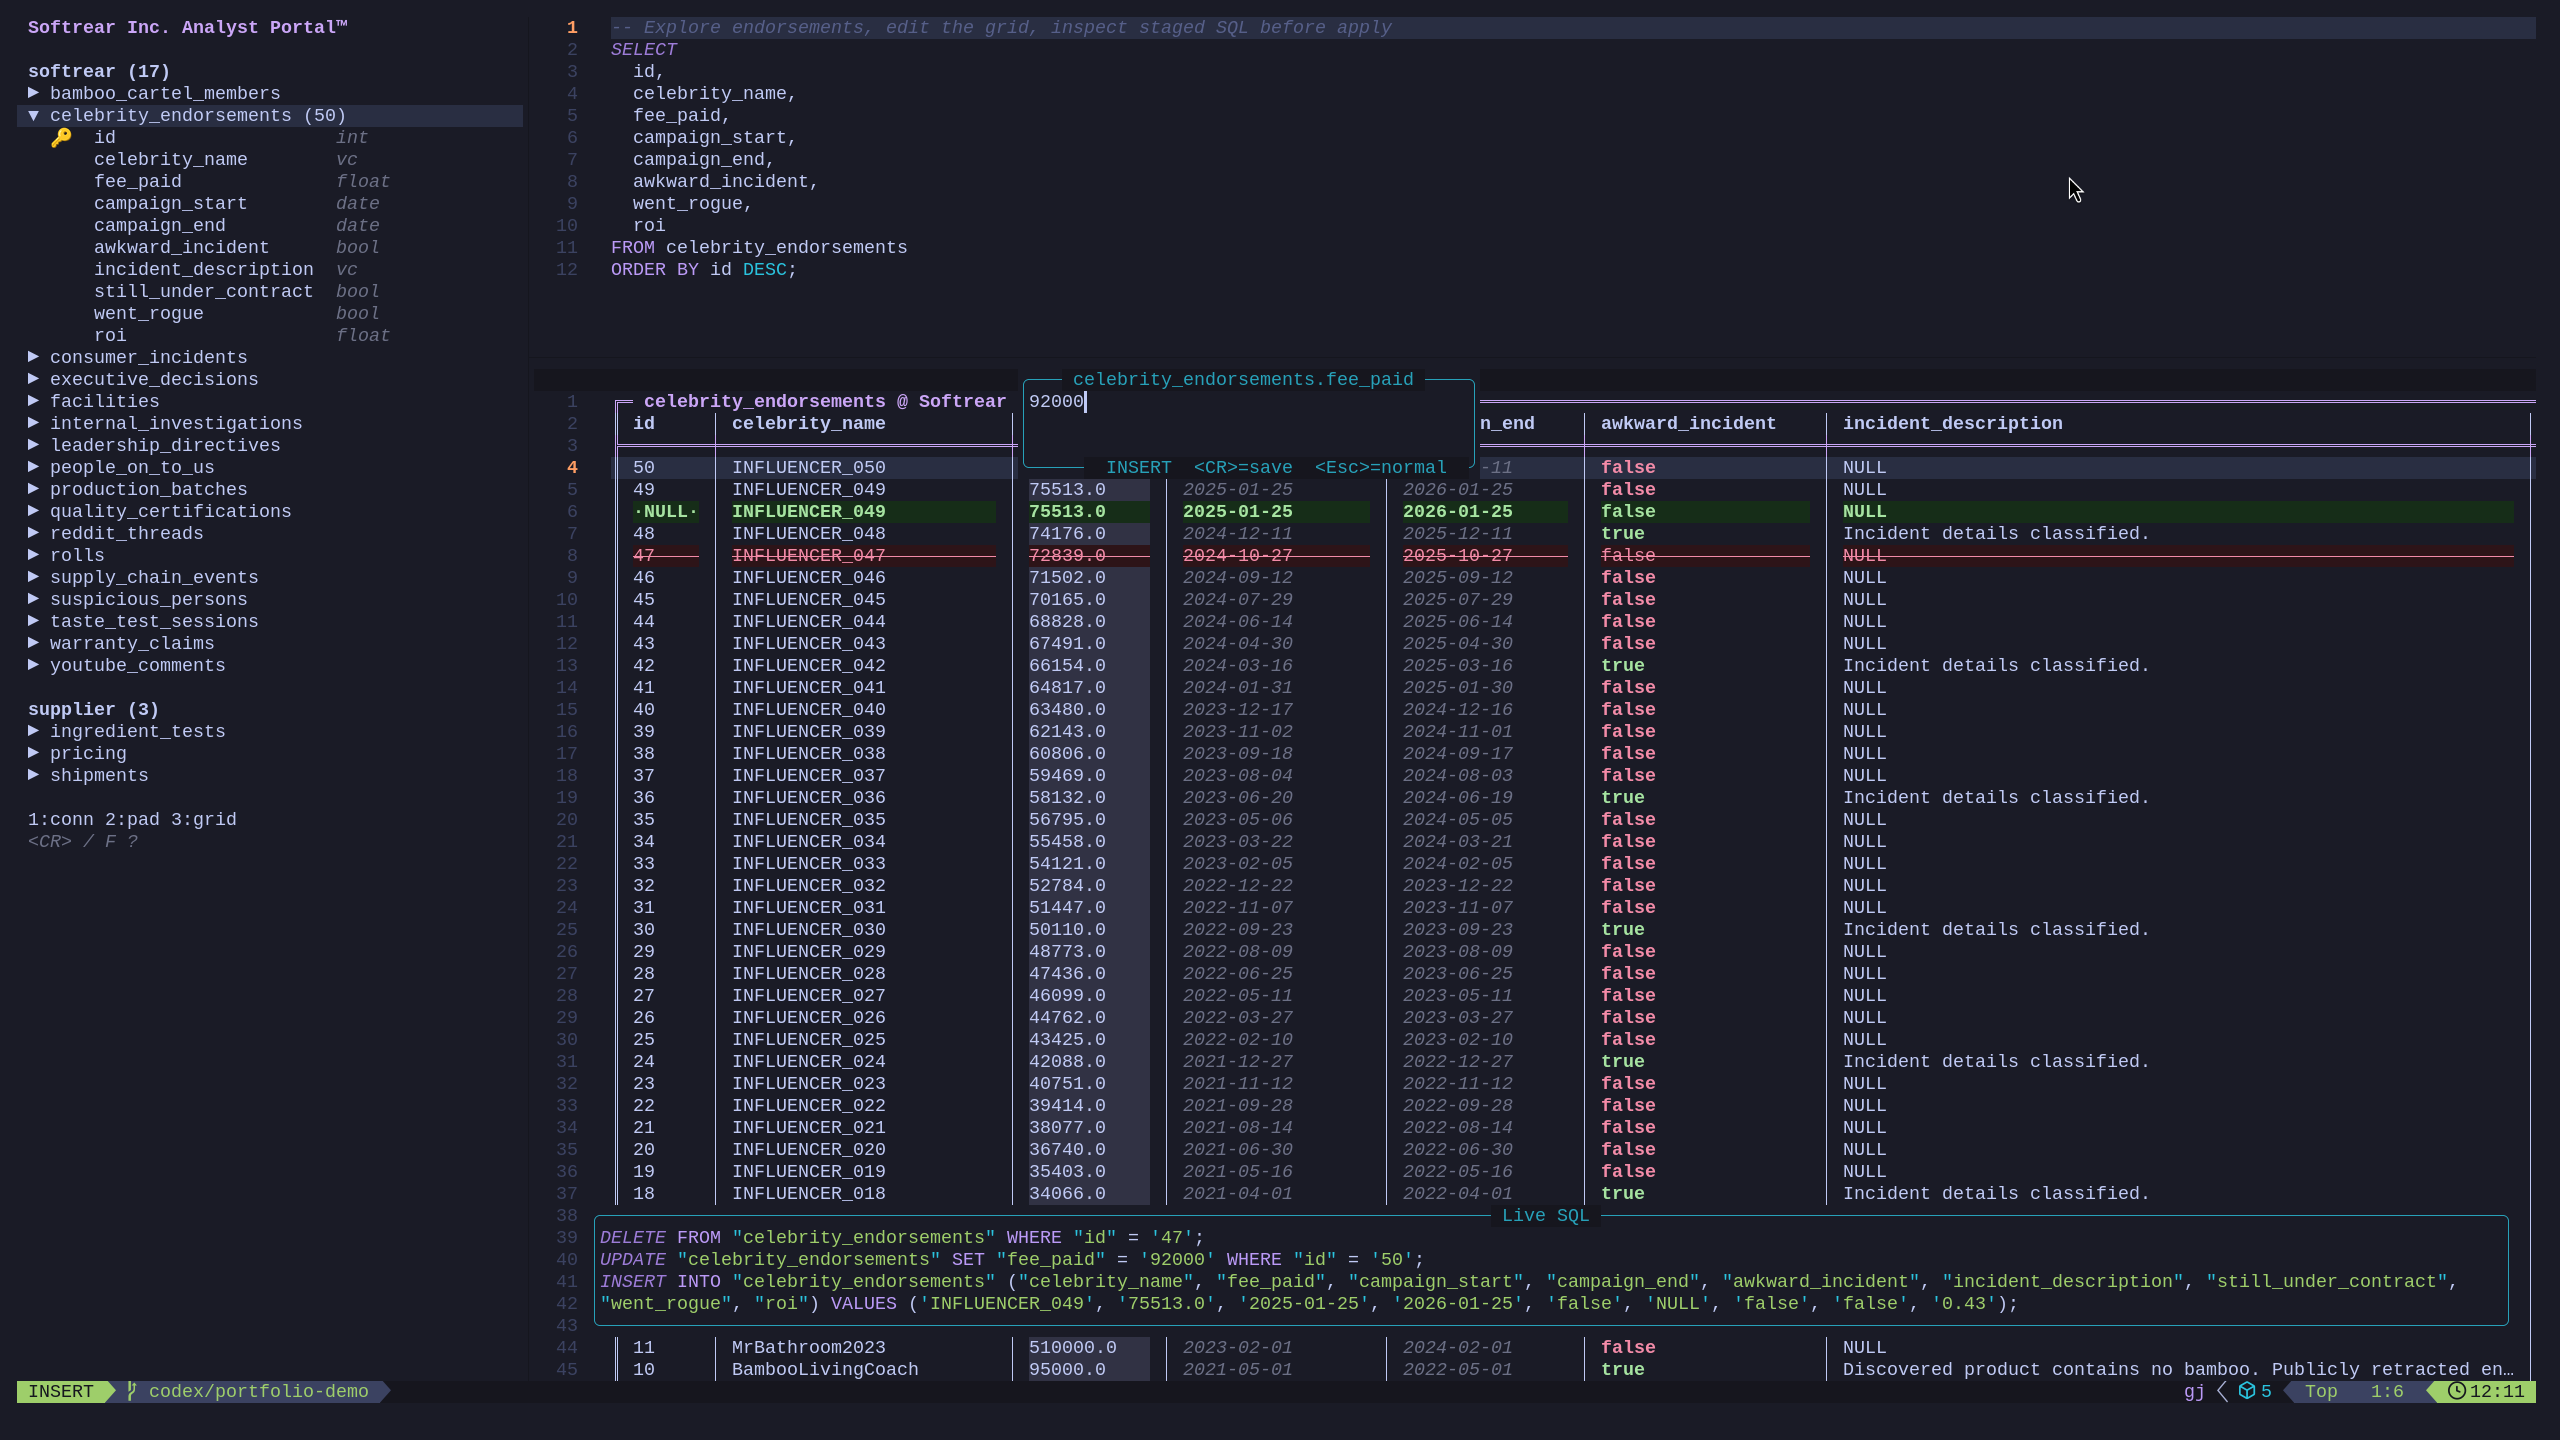
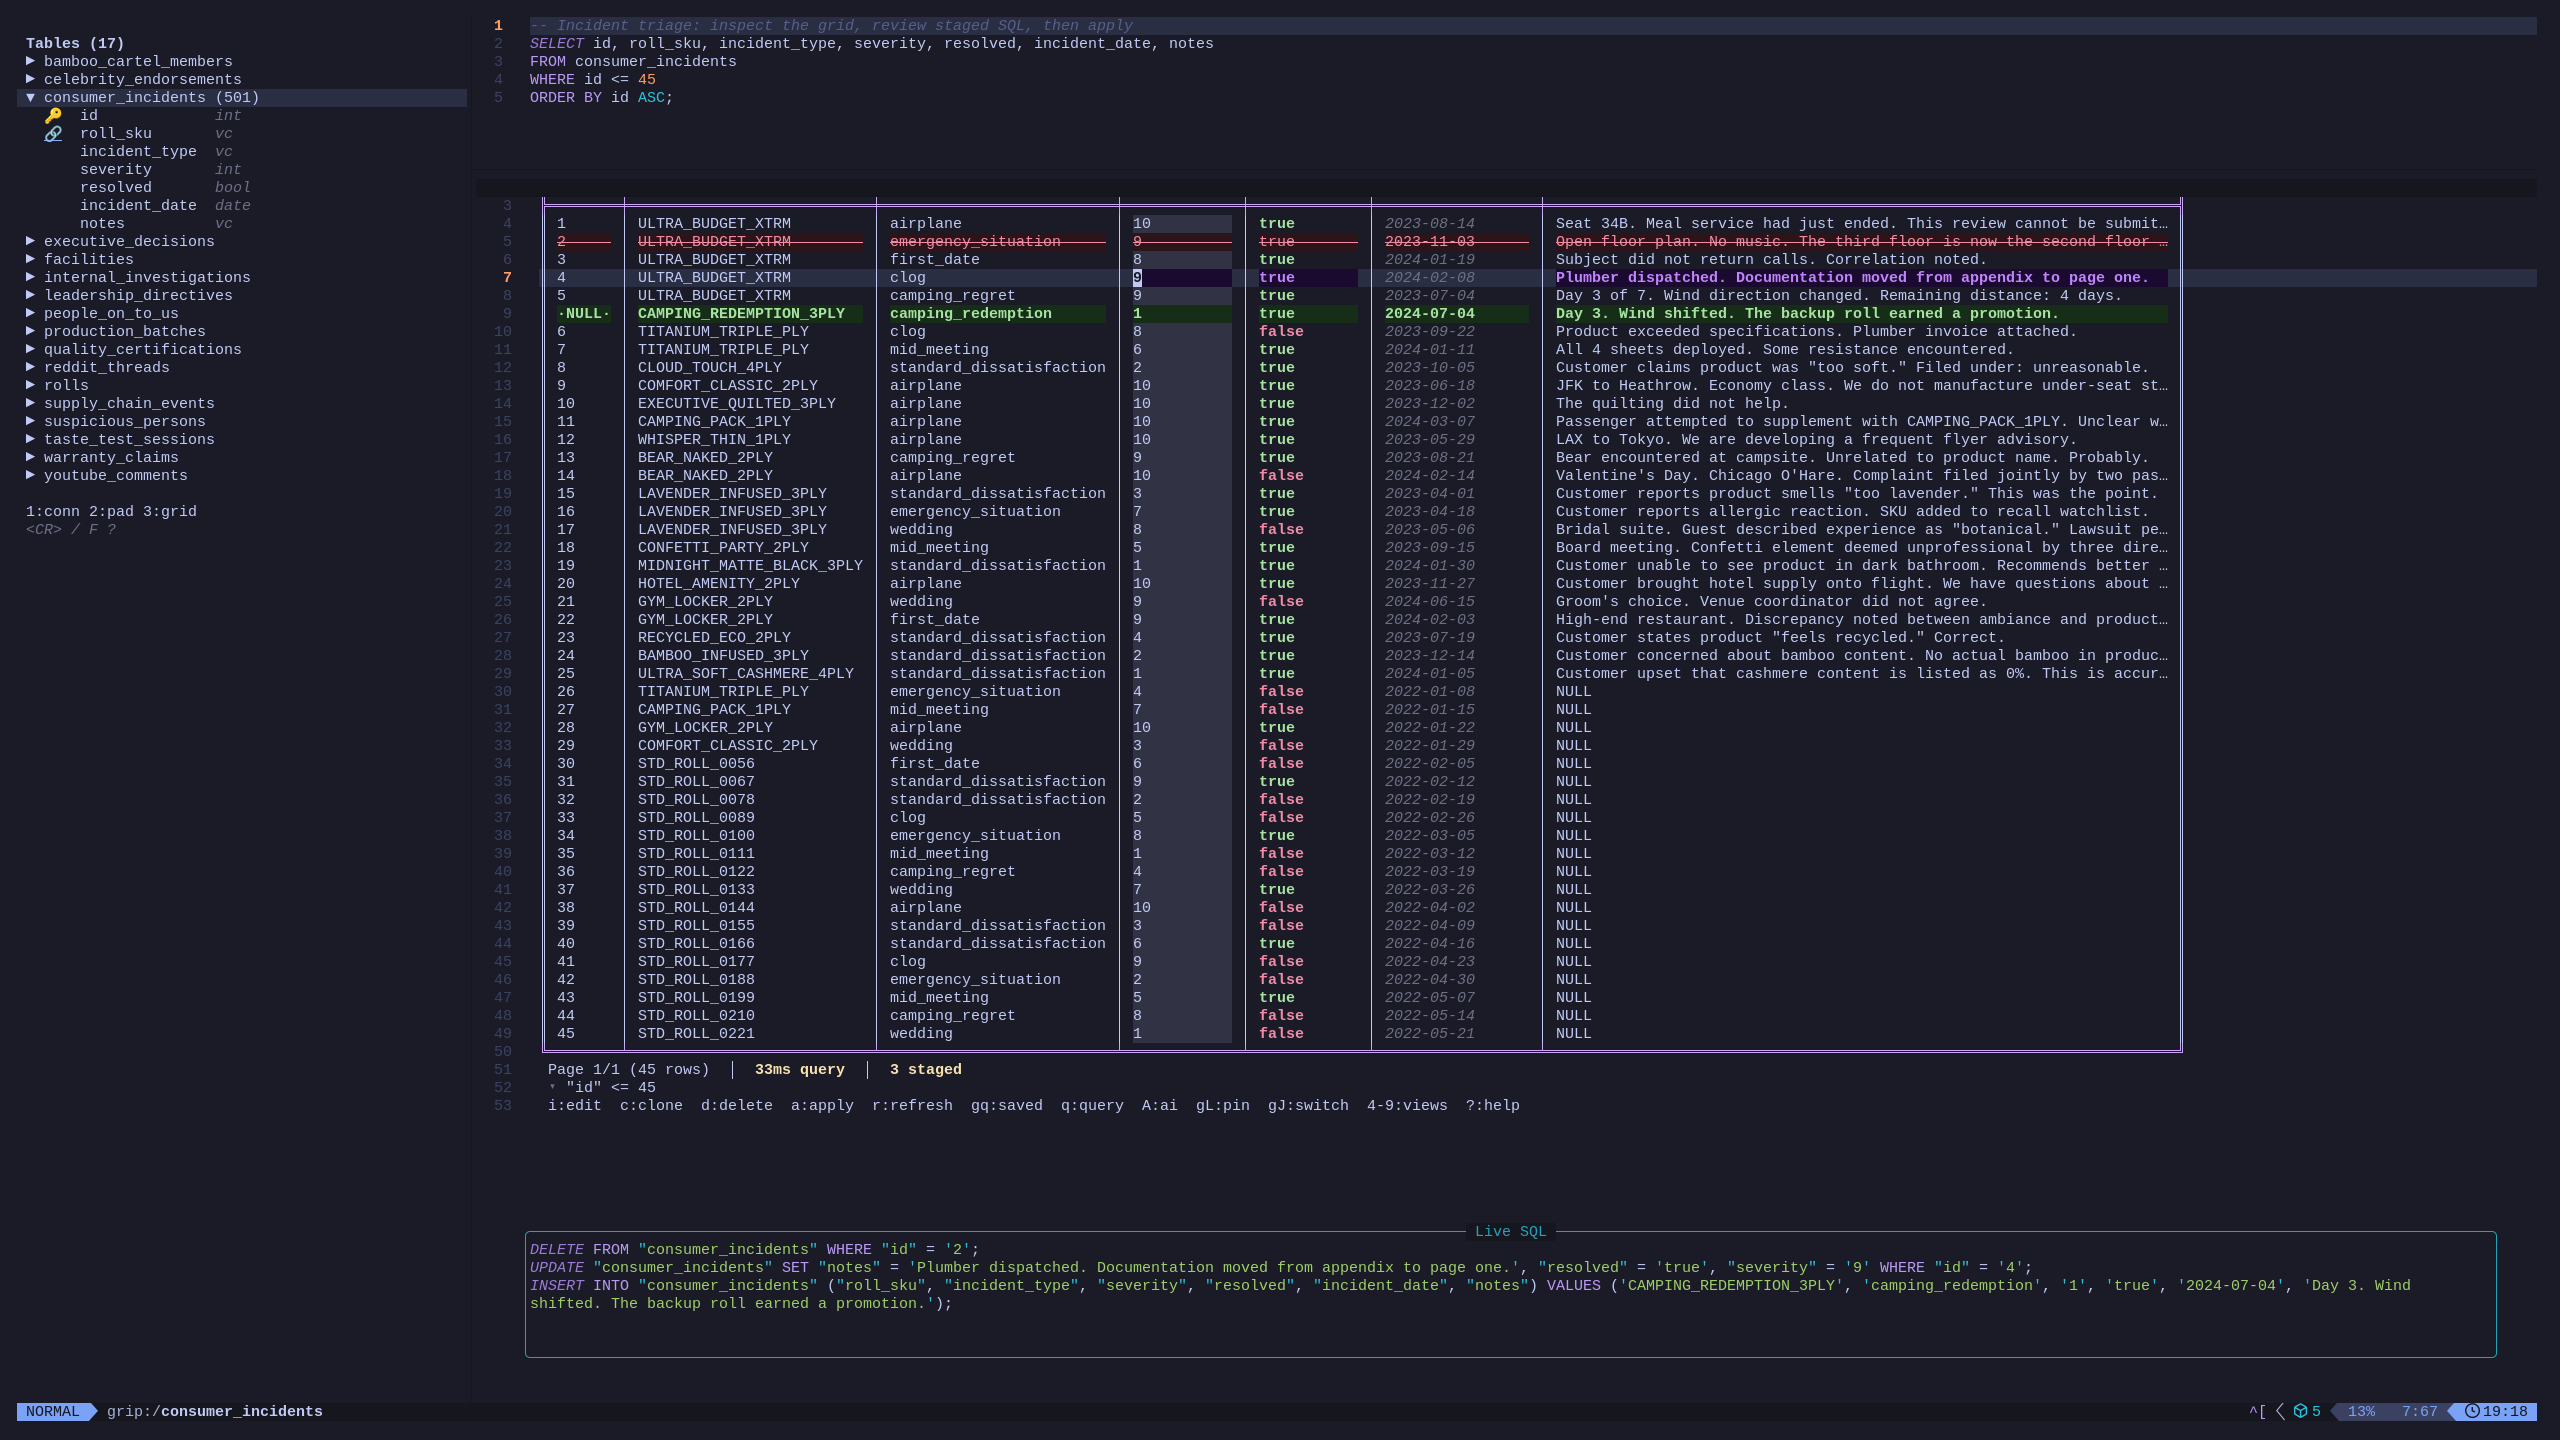
feat: sharpen the portfolio introduction

diff --git a/tests/portfolio.spec.js b/tests/portfolio.spec.js
@@ -6,7 +6,9 @@ test.describe('homepage asymmetric gallery', () => {
     await page.goto('/');
 
     await expect(page.getByRole('heading', { name: 'Useful systems with a pulse.' })).toBeVisible();
-    await expect(page.locator('.intro > p')).toBeVisible();
+    await expect(page.locator('.intro > p')).toHaveText(
+      'I build ambitious software where the interface and the engineering carry equal weight.'
+    );
     expect(await page.locator('.intro').evaluate((element) => element.getBoundingClientRect().height)).toBeLessThanOrEqual(220);
 
     const projects = page.locator('[data-featured-project]');
@@ -33,8 +35,14 @@ test.describe('homepage asymmetric gallery', () => {
 
     const dadbod = page.locator('[data-featured-project="dadbod-grip"]');
     const dadbodImage = dadbod.locator('.project-media img');
-    await expect(dadbodImage).toHaveAttribute('src', '/jpg/process/dadbod-grip-full-workspace.png');
-    await expect(dadbodImage).toHaveAttribute('alt', /expanded schema.*query pad.*editable grid.*staged SQL/i);
+    await expect(dadbodImage).toHaveAttribute(
+      'src',
+      '/jpg/process/dadbod-grip-full-workspace.png?v=consumer-triage-1'
+    );
+    await expect(dadbodImage).toHaveAttribute(
+      'alt',
+      /consumer incident.*expanded schema.*editable grid.*staged.*Live SQL/i
+    );
     await expect(dadbodImage).toHaveCSS('object-fit', 'contain');
     await expect(dadbod.getByRole('link', { name: 'Open walkthrough' })).toHaveAttribute('href', 'https://jorypestorious.com/dadbod-grip-web/');
     await expect(dadbod.getByRole('link', { name: 'View source' })).toHaveAttribute('href', 'https://github.com/joryeugene/dadbod-grip.nvim');

diff --git a/index.html b/index.html
@@ -43,13 +43,13 @@
     <main id="main">
       <section class="intro" aria-labelledby="work-intro">
         <h1 id="work-intro" class="page-title">Useful systems with a pulse.</h1>
-        <p>I build tools for complex systems, from editable databases and keyboard-first calendars to multiplayer infrastructure.</p>
+        <p>I build ambitious software where the interface and the engineering carry equal weight.</p>
       </section>
 
       <section class="project-gallery" aria-label="Featured projects">
         <article class="project-feature project-feature--dadbod" data-featured-project="dadbod-grip">
           <figure class="project-media project-media--hero">
-            <img src="/jpg/process/dadbod-grip-full-workspace.png" alt="Dadbod Grip full workspace with an expanded schema, query pad, editable grid, inline editor, and staged SQL in Neovim" width="2560" height="1440">
+            <img src="/jpg/process/dadbod-grip-full-workspace.png?v=consumer-triage-1" alt="Dadbod Grip consumer incident triage with an expanded schema, filtered query pad, editable grid, staged delete, update, and clone rows, and generated Live SQL in Neovim" width="2560" height="1440">
           </figure>
           <div class="project-rail">
             <header class="project-rail__heading">
